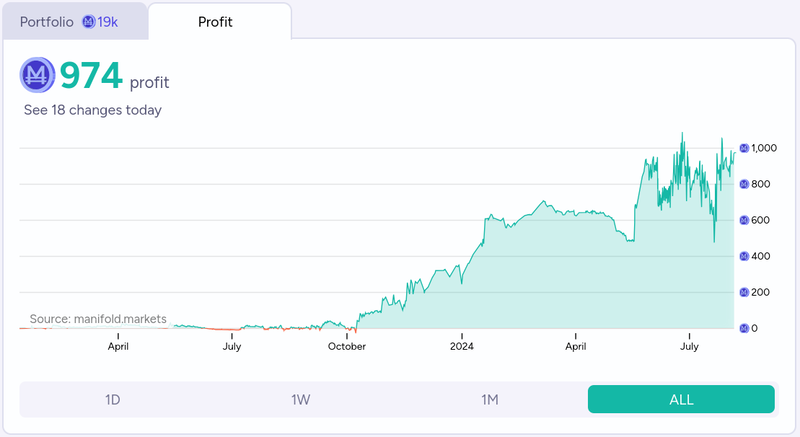
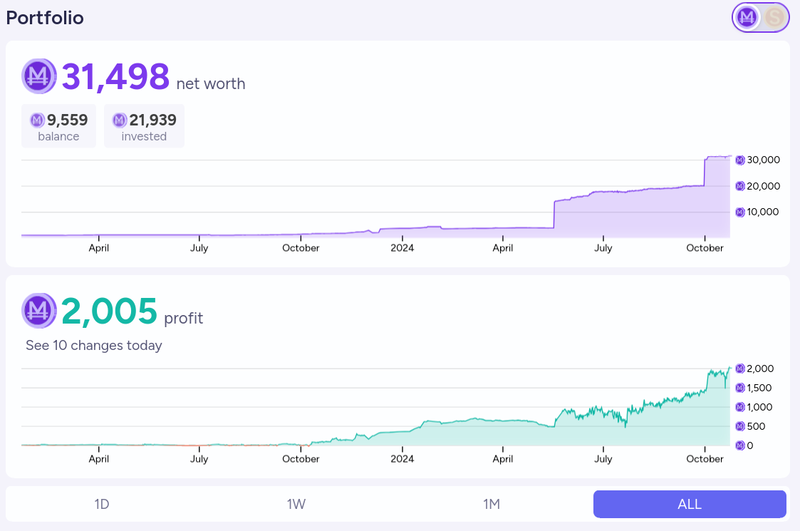
Add.

diff --git a/logical.html b/logical.html
@@ -33,9 +33,10 @@ document.addEventListener('DOMContentLoaded', function () {
 });
 </script>
 </head><body><h2 id="home"><a href="./index.html">home</a></h2>
-<p><em>author: niplav, created: 2024-04-22, modified: 2024-10-22, language: english, status: in progress, importance: 5, confidence: highly likely</em></p>
+<p><em>author: niplav, created: 2024-04-22, modified: 2024-10-24, language: english, status: in progress, importance: 5, confidence: highly likely</em></p>
 <blockquote>
-<p><strong>How to compare how similarly programs compute their outputs.</strong></p>
+<p><strong>In which to compare how similarly programs compute their outputs,
+<a href="#A_Nave_Formula">naïvely</a> and <a href="#A_Less_Nave_Formula">less naïvely</a>.</strong></p>
 </blockquote>
 <h1 id="Logical_Correlation"><a class="hanchor" href="#Logical_Correlation">Logical Correlation</a></h1>
 <p>In the <a href="https://www.lesswrong.com/tag/psychological-twin-prisoner-s-dilemma">twin prisoners
@@ -53,8 +54,13 @@ to be radically different. Intuitively, my similarity to <code>$p^{\star}$</code
 is pretty small, because even though it gives the same output, it gives
 that output for very different reasons, so I don't have much control
 over its outputs by controlling my own computations.</p>
-<p>Let's call this similarity of two algorithms the <strong>logical correlation</strong>
-between the two algorithms, a term also used in <a href="./cs/ai/alignment/agent_foundations/embedded_agency_demski_garrabrant_2020.pdf">Demski &amp; Garrabrant
+<p>Let's call this similarity of two algorithms the
+<strong>logical correlation</strong> between the two algorithms (<a href="https://forum.effectivealtruism.org/posts/JGazpLa3Gvvter4JW/cooperating-with-aliens-and-agis-an-ecl-explainer#fnref5yum06b0ld8">alternative
+terms</a>
+"include “logical influence,” “logical
+correlation,” “correlation,” “quasi-causation,”
+“metacausation,” […] “entanglement”[,] “acausal
+influence”"). I take this term from <a href="./cs/ai/alignment/agent_foundations/embedded_agency_demski_garrabrant_2020.pdf">Demski &amp; Garrabrant
 2020</a>:</p>
 <blockquote>
 <p>One idea is that exact copies should be treated as 100% under
@@ -71,11 +77,12 @@ as logical (Garrabrant et al., 2016): if I cooperate, then this implies
 that all other implementations of my decision algorithm also cooperate.</p>
 </blockquote>
 <p><em>—Caspar Oesterheld, “Multiverse-wide Cooperation via Correlated Decision Making” p. 18, 2018</em></p>
-<p>We don't yet have a way of estimating the logical correlation between
-different decision algorithms.</p>
-<p>Thus: Consider proposing the most naïve formula (which we'll designate
-by <code>$合$</code><sup id="fnref1"><a href="#fn1" rel="footnote">1</a></sup>) for logical correlation<sup id="fnref2"><a href="#fn2" rel="footnote">2</a></sup>: Something that takes in
-two programs and returns a number that quantifies how similarly the two
+<p>There isn't yet an established way of estimating the logical correlation
+between different decision algorithms.</p>
+<h2 id="A_Nave_Formula"><a class="hanchor" href="#A_Nave_Formula">A Naïve Formula</a></h2>
+<p>Thus: Consider the some naïve formula (which we'll designate by
+<code>$合$</code><sup id="fnref1"><a href="#fn1" rel="footnote">1</a></sup>) for logical correlation<sup id="fnref2"><a href="#fn2" rel="footnote">2</a></sup>: Something that takes in two
+programs and returns a number that quantifies how similarly the two
 programs compute what they compute.</p>
 <h3 id="Setup"><a class="hanchor" href="#Setup">Setup</a></h3>
 <p>Let a program <code>$p$</code> be a tuple of code for a <a href="https://en.wikipedia.org/wiki/Turing_Machine">Turing
@@ -83,8 +90,9 @@ machine</a> and intermediate
 tape states after each command execution. We'll treat the final tape
 state as the output, all in binary.</p>
 <p>That is <code>$p=(c, t)$</code>, with <code>$c \in \{0, 1\}^+$</code> and <code>$t \in (\{0,
-1\}^+)^+$</code> Let <code>$l=|t|$</code> be the number of steps that <code>$p$</code> takes to halt.</p>
-<p>For simplicities' sake, let's call <code>$t_l$</code> <code>$o$</code>, the output.</p>
+1\}^+)^+$</code>. Let <code>$l=|t|$</code> be the number of steps that <code>$p$</code> takes to halt.</p>
+<p>For simplicity's sake, let's give <code>$t_l$</code> (the tape state upon halting)
+the name <code>$o$</code>, the output.</p>
 <h3 id="Possible_Desiderata"><a class="hanchor" href="#Possible_Desiderata">Possible Desiderata</a></h3>
 <ol>
 <li>If possible, we would want our formula for logical correlation to be a <a href="https://en.wikipedia.org/wiki/Metric_space">metric</a> or a <a href="https://en.wikipedia.org/wiki/Pseudometric_space">pseudometric</a> on the space of programs:
@@ -114,29 +122,84 @@ metric</a> <code>$d:
 </div>
 <p>The lower <code>$合$</code>, the higher the logical correlation between <code>$p_1$</code>
 and <code>$p_2$</code>.</p>
-<p>If <code>$d(o_1, o_2)&lt;d(o_1, o_3)$</code>, then it's also the case that <code>$合(p_1, p_2, γ)&lt;合(p_1, p_3, γ)$</code>.</p>
+<h4 id="Explanation"><a class="hanchor" href="#Explanation">Explanation</a></h4>
+<p>Let's take a look at the equation again, but this time with some color
+highlighting:</p>
+<div>
+        $$合(p_1, p_2, γ)=\color{red}{d(o_1, o_2)}+0.5\color{orange}{-}\frac{1}{2+\color{green}{\sum_{k=1}^{\min(l_1, l_2)}} \color{purple}{γ^k \cdot} \color{blue}{d(t_1(l_1-k), t_2(l_2-k))}}$$
+</div>
+<p>The fundamental idea is that we first <span style="color:red">compute
+the distance of the two outputs</span>. We then go <em>backward</em> through
+the trace of the two programs, <span style="color:green">adding up the
+pairwise </span> <span style="color:blue">differences of the traces at
+each timestep</span>, potentially <span style="color:purple">discounting
+the differences the farther they lie in in the "past" of the
+output/further towards the start of the computation</span>.</p>
+<p><img alt="" src="./img/logical/naive.png"/></p>
+<p>Finally, we <span style="color:orange"><em>subtract</em></span> the inverse of
+this (discounted) sum of trace differences from the output difference<sup id="fnref4"><a href="#fn4" rel="footnote">4</a></sup>.</p>
+<p>The fraction can maximally be ½ (since we're
+adding a number greater than zero to two in the <a href="./mathematics_notation_convention.html#Basics">lower
+number</a>). Thus, since
+we're subtracting a number ≤½ from <code>$d(o_1, o_2)+0.5$</code>, the resulting
+logical correlation must be <code>$d(o_1, o_2)≤合(p_1, p_2, γ)≤d(o_1,
+o_2)+0.5$</code>. That implies that for three programs with the same output,
+their logical correlations all lie in that range. That also means that
+if <code>$d(o_1, o_2)&lt;d(o_1, o_3)$</code>, then it's the case that <code>$合(p_1, p_2,
+γ)&lt;合(p_1, p_3, γ)$</code>.</p>
+<p>Or, in even simpler terms; "Output similarity dominates trace similarity."</p>
+<h4 id="Different_Trace_Lengths"><a class="hanchor" href="#Different_Trace_Lengths">Different Trace Lengths</a></h4>
 <p>One might also want to be able to deal with the fact that programs have
 different trace lengths, and penalize that, e.g. amending the formula:</p>
 <div>
         $$合'(p_1, p_2, γ)=合(p_1, p_2, γ)+2^{|l_1-l_2|}$$
 </div>
-<p>I'm a bit unhappy that the code doesn't factor into the logical
-correlation, and ideally one would want to be able to compute the logical
-correlation without having to run the program.</p>
 <h3 id="Desiderata_Fulfilled"><a class="hanchor" href="#Desiderata_Fulfilled">Desiderata Fulfilled?</a></h3>
 <p>Does this fulfill our desiderata from earlier? I'll assume that the
 string distance <code>$d$</code> is a metric, in the mathematical sense.</p>
 <h4 id="None"><a class="hanchor" href="#None">Proving <code>$合(p, p)=0$</code></a></h4>
 <p>Proof:</p>
 <div>
-    $$d(o, o)+0.5-\frac{1}{2+\sum_{k=0}^{\min(l, l)} γ^k \cdot d(t(l-k), t(l-k))}= \\
-    0+0.5+\frac{1}{2+\sum_{k=0}^l y^k \cdot 0}= \\
+    $$d(o, o)+0.5-\frac{1}{2+\sum_{k=1}^{\min(l, l)} γ^k \cdot d(t(l-k), t(l-k))}= \\
+    0+0.5+\frac{1}{2+\sum_{k=1}^l y^k \cdot 0}= \\
     0.5+\frac{1}{2+0}= \\
     0$$
 </div>
 <p>Since <code>$d$</code> is a metric, <code>$d(o, o)=0$</code>.</p>
 <h4 id="Proving_Positivity"><a class="hanchor" href="#Proving_Positivity">Proving Positivity</a></h4>
-<p>(The minimal logical correlation is 0.)</p>
+<p>The minimal logical correlation is 0.</p>
+<div>
+    $$合(p_1, p_2, γ)≥0 \Leftrightarrow \\
+    d(o_1, o_2)+0.5-\frac{1}{2+\sum_{k=1}^{\min(l_1, l_2)} γ^k \cdot d(t_1(l_1-k), t_2(l_2-k))}≥0 \Leftrightarrow \\
+    d(o_1, o_2)+0.5 ≥\frac{1}{2+\sum_{k=1}^{\min(l_1, l_2)} γ^k \cdot d(t_1(l_1-k), t_2(l_2-k))} \Leftrightarrow \\
+    2 \cdot d(o_1, o_2)+1+d(o_1, o_2) \cdot \sum_{k=1}^{\min(l_1, l_2)} γ^k \cdot d(t_1(l_1-k), t_2(l_2-k))+0.5 \cdot \sum_{k=1}^{\min(l_1, l_2)} γ^k \cdot d(t_1(l_1-k), t_2(l_2-k))≥1 \Leftrightarrow \\
+    2 \cdot d(o_1, o_2)+1+(d(o_1, o_2)+0.5) \cdot \sum_{k=1}^{\min(l_1, l_2)} γ^k \cdot d(t_1(l_1-k), t_2(l_2-k)))≥1 \Leftrightarrow \\
+    2 \cdot d(o_1, o_2)+(d(o_1, o_2)+0.5) \cdot \sum_{k=1}^{\min(l_1, l_2)} γ^k \cdot d(t_1(l_1-k), t_2(l_2-k)))≥0 $$
+</div>
+<p>This is true, because:</p>
+<ol>
+<li><code>$d(o_1, o_2)≥0$</code>.</li>
+<li><code>$d(t_1(l_1-k), t_2(l_2-k))≥0$</code> for every <code>$k$</code>.</li>
+<li><code>$γ^k≥0$</code> for every <code>$k$</code>.</li>
+</ol>
+<p>Thus we have a sum of products of only positive things, which is in turn
+positive itself.</p>
+<!--
+### Implementation
+
+TODO: implement in Rust using Brainfuck-->
+<h2 id="A_Less_Nave_Formula"><a class="hanchor" href="#A_Less_Nave_Formula">A Less Naïve Formula</a></h2>
+<p>I think that <a href="#Some_Nave_Formula">the naïve formula</a> is <em>too</em> naïve.
+Reasons:</p>
+<ol>
+<li>If you have a program <code>$p$</code> and a program <code>$p^-$</code> which is just <code>$p$</code> but with the tape reversed (so that whenever <code>$p$</code> makes a step left, <code>$p^-$</code> makes a step right, and same with right steps for <code>$p$</code>). Intuitively <code>$p$</code> and <code>$p^-$</code> should have a very high logical correlation, but <code>$合$</code> would tell us that they very much don't.</li>
+<li><code>$合$</code> doesn't <em>really</em> make a statement about which states of the program influence which other states, it just compares them.
+3 I'm a bit unhappy that the code doesn't factor into <code>$合$</code>, and ideally one would want to be able to compute the logical correlation without having to run the program.</li>
+</ol>
+<p>I think one can create a better (though not perfect)
+way of determining logical correlations based on <a href="https://en.wikipedia.org/wiki/Shapley_value">Shapley
+Values</a> and possible
+tape-permutations.</p>
 <h2 id="See_Also"><a class="hanchor" href="#See_Also">See Also</a></h2>
 <ul>
 <li>How does this relate to <a href="https://wiki.c2.com/?DataAndCodeAreTheSameThing">data=code</a>?</li>
@@ -157,6 +220,9 @@ exactly same tape states…)-->
 </li>
 <li id="fn3">
 <p>Which is needed because tape states close to the output are more important than tape states early on. <a href="#fnref3" rev="footnote">↩</a></p>
+</li>
+<li id="fn4">
+<p>Together with two constants to avoid division by zero or same logical correlations for programs with different outputs differences. <a href="#fnref4" rev="footnote">↩</a></p>
 </li>
 </ol>
 </div>

diff --git a/napkin_solutions.html b/napkin_solutions.html
@@ -33,7 +33,7 @@ document.addEventListener('DOMContentLoaded', function () {
 });
 </script>
 </head><body><h2 id="home"><a href="./index.html">home</a></h2>
-<p><em>author: niplav, created: 2024-01-26, modified: 2024-01-31, language: english, status: in progress, importance: 2, confidence: certain</em></p>
+<p><em>author: niplav, created: 2024-01-26, modified: 2024-10-24, language: english, status: in progress, importance: 2, confidence: certain</em></p>
 <blockquote>
 <p><strong>I've decided to learn some real math, not just computer scientist
 math.</strong></p>
@@ -123,10 +123,10 @@ questions.</p>
 <ul>
 <li>0: Order 1 (it's already the identity element)</li>
 <li>1: Order 6, <code>$1+1+1+1+1+1 \mod 6=0$</code></li>
-<li>2: Order 3 <code>$2+2+2 \mod 6=0$</code></li>
-<li>3: Order 2 <code>$3+3 \mod 6=0$</code></li>
-<li>4: Order 3 <code>$4+4+4 \mod 6=0$</code></li>
-<li>5: Order 6 <code>$5+5+5+5+5+5 \mod 6=0$</code></li>
+<li>2: Order 3, <code>$2+2+2 \mod 6=0$</code></li>
+<li>3: Order 2, <code>$3+3 \mod 6=0$</code></li>
+<li>4: Order 3, <code>$4+4+4 \mod 6=0$</code></li>
+<li>5: Order 6, <code>$5+5+5+5+5+5 \mod 6=0$</code></li>
 </ul>
 <h3 id="Exercise_156"><a class="hanchor" href="#Exercise_156">Exercise 1.5.6</a></h3>
 <p>I don't quite get this question. I think I need <em>more</em> information about

diff --git a/increasing.html b/increasing.html
@@ -33,7 +33,7 @@ document.addEventListener('DOMContentLoaded', function () {
 });
 </script>
 </head><body><h2 id="home"><a href="./index.html">home</a></h2>
-<p><em>author: niplav, created: 2023-07-06, modified: 2024-10-17, language: english, status: notes, importance: 6, confidence: possible</em></p>
+<p><em>author: niplav, created: 2023-07-06, modified: 2024-10-24, language: english, status: notes, importance: 6, confidence: possible</em></p>
 <blockquote>
 <p><strong>Humans get around 80 years of life. How can that time be made to
 feel as long as possible?</strong></p>
@@ -119,8 +119,8 @@ around two-thirds of people.</p>
 and (weakly) conclude that melatonin reduces my sleep duration by ~25
 minutes, although I have not checked whether melatonin simply makes my
 body go into sleep debt which is then paid off the next night.</p>
-<p>But meta-analysis I've found claim that melatonin increases sleep duration
-by ~13 minutes:</p>
+<p>But a meta-analysis I've found claim that melatonin increases sleep
+duration by ~13 minutes:</p>
 <blockquote>
 <p>Melatonin treatment significantly […] increased total sleep duration
 by 12.8 min (95% CI 2.9, 22.8). […]<br/>

diff --git a/about.html b/about.html
@@ -497,11 +497,11 @@ source of information.</p>
 </ul></li>
 <li><a href="https://manifold.markets/NiplavYushtun">Manifold markets</a>
 <ul>
-<li>Profit: M̶974</li>
-<li>Net worth: M̶18503</li>
-<li>Calibration: Grade B-, Score -2.69
-<img alt="" src="./img/about/manifold_calibration.png"/>
+<li>Profit: M̶2005</li>
+<li>Net worth: M̶31498
 <img alt="" src="./img/about/manifold_profit.png"/></li>
+<li>Calibration: Grade B-, Score -2.69
+<img alt="" src="./img/about/manifold_calibration.png"/></li>
 </ul></li>
 <li>Fatebook calibration<!--TODO: link-->: Imported from PredictionBook, mostly predictions on self-experiments.
 <img alt="" src="./img/about/fatebook_calibration.png"/></li>

diff --git a/changelog.html b/changelog.html
@@ -54,6 +54,7 @@ feed</a>. Don't expect any <em>different</em>
 content.</p>
 <h2 id="October_2024"><a class="hanchor" href="#October_2024">October 2024</a></h2>
 <ul>
+<li><a href="./logical.html">Logical Correlation</a>: <a href="./logical.html#Explanation">Explanation</a> of the <a href="./logical.html#A_Nave_Formula">naïve formula</a></li>
 <li><a href="./nuclear.html#Make_ICBMs_Abortable_MidFlight">Make ICBMs Abortable Mid-Flight</a></li>
 <li><a href="./notes.html#Supplements_To_The_Overcoming_Bias_Anthology">Supplements To The Overcoming Bias Anthology</a></li>
 <li><a href="./notes_on_pickup.html">Notes on Pickup</a>:

diff --git a/notes.html b/notes.html
@@ -33,7 +33,7 @@ document.addEventListener('DOMContentLoaded', function () {
 });
 </script>
 </head><body><h2 id="home"><a href="./index.html">home</a></h2>
-<p><em>author: niplav, created: 2019-05-22, modified: 2024-10-21, language: english, status: in progress, importance: 3, confidence: other</em></p>
+<p><em>author: niplav, created: 2019-05-22, modified: 2024-10-23, language: english, status: in progress, importance: 3, confidence: other</em></p>
 <blockquote>
 <p><strong>Short texts on different topics.</strong></p>
 </blockquote>

diff --git a/todo.html b/todo.html
@@ -1233,10 +1233,6 @@ discarded methods of writing mathematics.</li>
 <li>Reporting Likelihood Ratios: A Practical Tutorial</li>
 <li>Some Problems in Computational Philosophy
 <ul>
-<li>Metrics for Logical Correlation
-<ul>
-<li>Between Decision Algorithms and algorithms in general</li>
-</ul></li>
 <li>The Python-with-Witch Problem</li>
 <li>Solomonoff Induction with a Sophistication Prior?</li>
 <li>Dutch-books for Agents That Implement Incompleteness via Randomization</li>
